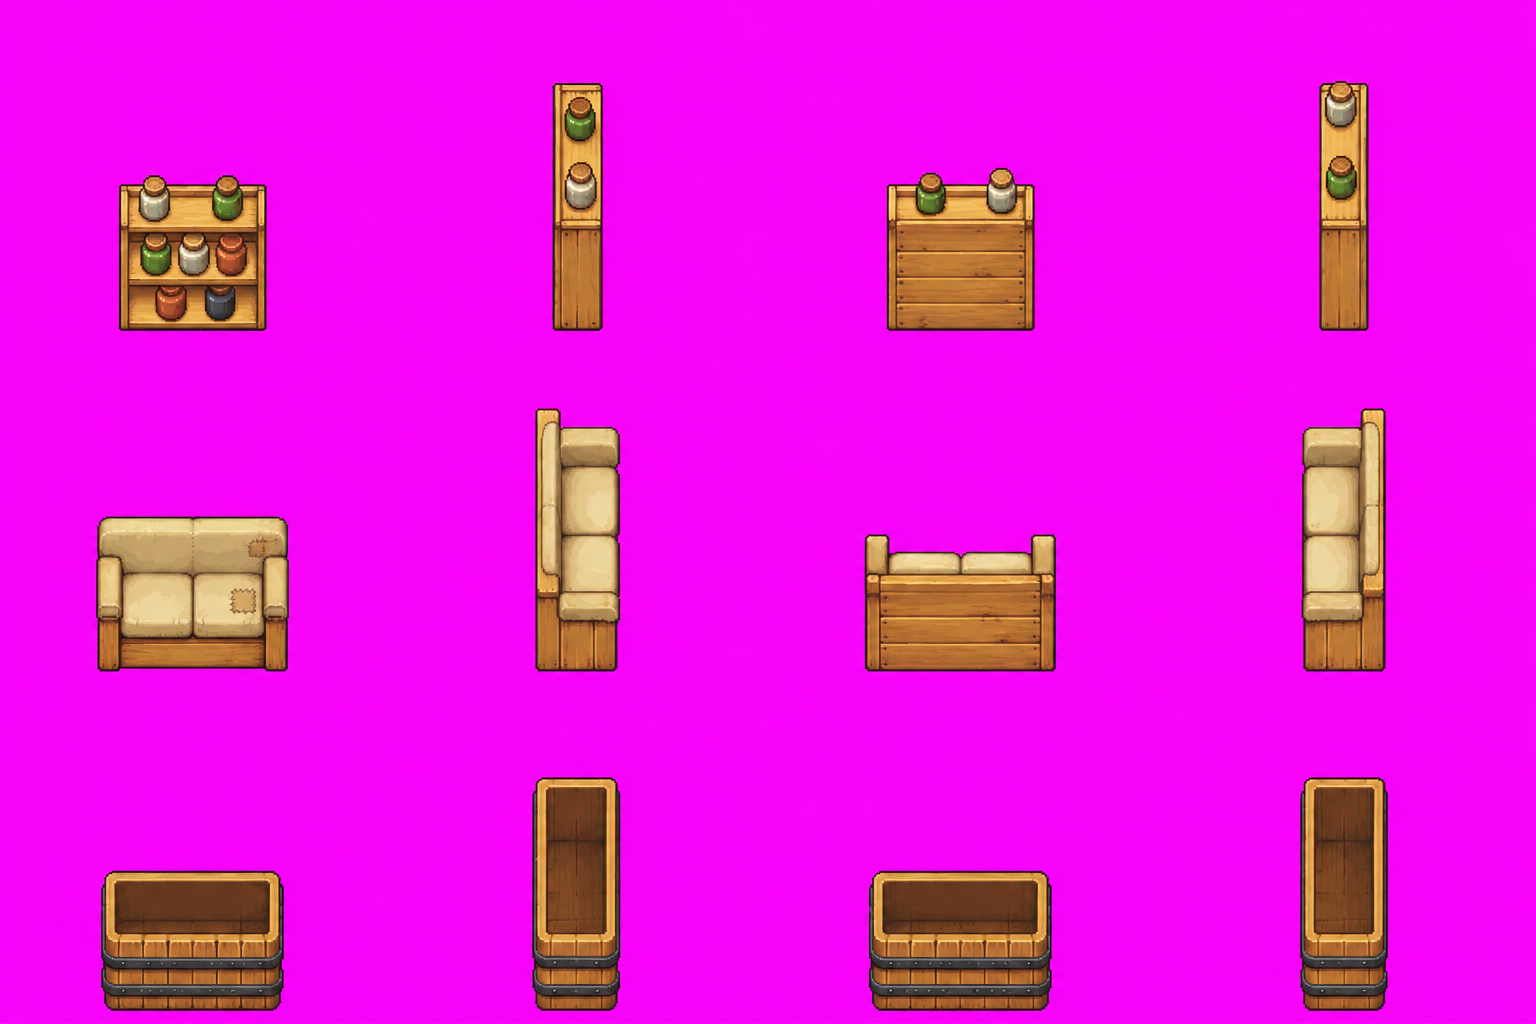
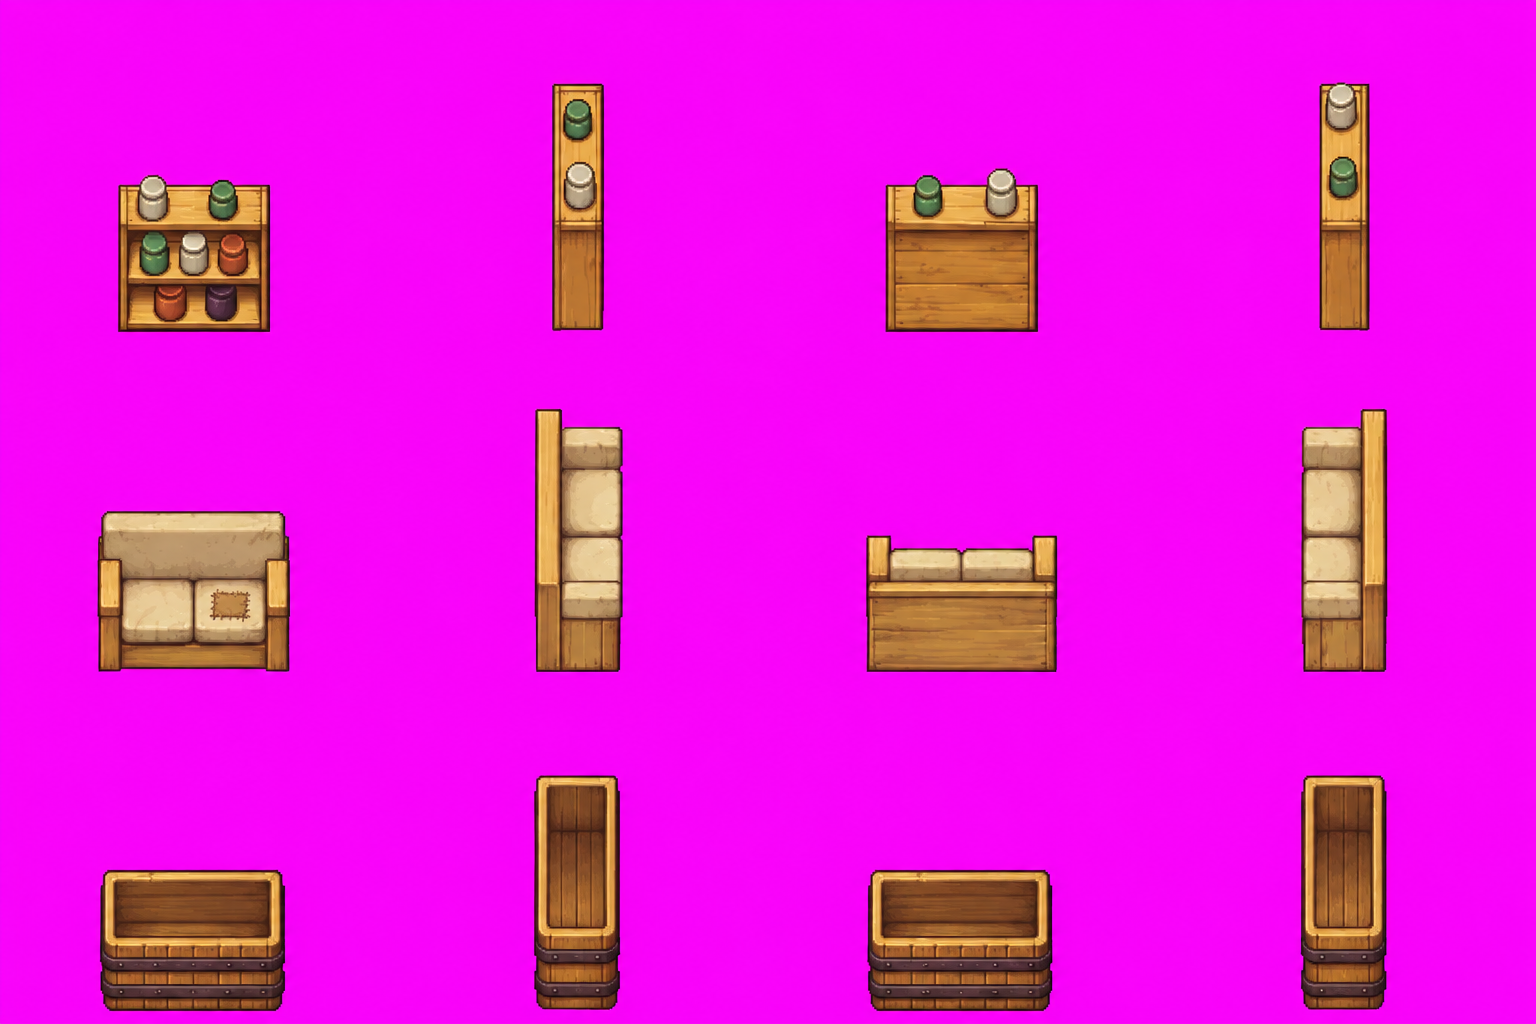
furniture: block-guide round judged (sheets A, B, C pass and are kept as sources; sheet D fails and gets larger guides D1, D2); code audit of farm and house recorded

diff --git a/furniture_guides.py b/furniture_guides.py
@@ -40,7 +40,7 @@ SHEETS = {'A': ['bed', 'wardrobe', 'desk'], 'B': ['piano', 'counter', 'stove'], 
 VIEWS = ['S', 'E', 'N', 'W']
 def tr(view, w, d, u, v):                                            # piece coordinates -> (across, depth toward the viewer)
     return {'S': (u, v), 'E': (v, w - u), 'N': (w - u, d - v), 'W': (d - v, u)}[view]
-def render(parts, w, d, view):
+def render(parts, w, d, view, PX=PX):
     prim = []
     for p in parts:
         if p[0] == 'box':
@@ -82,6 +82,21 @@ for name, rows in SHEETS.items():
             s, sz = render(parts, w, d, v); x = c * CW + (CW - s.width) // 2; assert s.height <= CH - 4, (piece, v, s.height); im.alpha_composite(s, (x, base - s.height)); meta[name][piece]['boxes'].append([x, base - s.height, x + s.width, base]); meta[name][piece]['tiles'].append(sz)
     im.convert('RGB').save(f'2_guide-{name}.png')
 json.dump({'px_per_tile': PX, 'cell_w': CW, 'columns': ['facing viewer', 'facing right', 'facing away', 'facing left'], 'sheets': meta}, open('furniture_guides.json', 'w'))
+# ---- sheet D again, larger (4 Oct): at 72 px a tile the toilet was only 57 px wide, and the painter blew the small pieces up by 1.2-1.65 times and flattened the round table top.
+# Two sheets at 108 px a tile, so every shape is big enough to be painted inside: D1 = toilet and washstand (2 rows x 4 views), D2 = the four single pieces (2 x 2).
+P2 = 108; meta['D1'] = {'px_per_tile': P2}; meta['D2'] = {'px_per_tile': P2}
+im = Image.new('RGBA', (W, H), MAG + (255,))
+for r, piece in enumerate(['toilet', 'washstand']):
+    w, d, parts = PIECES[piece]; base = r * 512 + 512 - 40; meta['D1'][piece] = {'views': 4, 'foot_w_d': [w, d], 'boxes': []}
+    for c, v in enumerate(VIEWS):
+        s_, sz = render(parts, w, d, v, P2); x = c * 384 + (384 - s_.width) // 2; assert s_.height <= 500 and s_.width <= 380, (piece, v, s_.size); im.alpha_composite(s_, (x, base - s_.height)); meta['D1'][piece]['boxes'].append([x, base - s_.height, x + s_.width, base])
+im.convert('RGB').save('2_guide-D1.png')
+im = Image.new('RGBA', (W, H), MAG + (255,))
+for i_, (k, (w, d, parts)) in enumerate(ONE.items()):
+    s_, sz = render(parts, w, d, 'S', P2); cx = (i_ % 2) * 768 + 384; base = (i_ // 2) * 512 + 512 - 40; assert s_.height <= 470, (k, s_.size); x = cx - s_.width // 2; im.alpha_composite(s_, (x, base - s_.height)); meta['D2'][k] = {'views': 1, 'box': [x, base - s_.height, x + s_.width, base], 'foot': [w, d]}
+im.convert('RGB').save('2_guide-D2.png')
+json.dump({'px_per_tile': PX, 'cell': [CW, CH], 'columns': ['facing viewer', 'facing right', 'facing away', 'facing left'], 'sheets': meta}, open('furniture_guides.json', 'w'))
+S2 = Image.new('RGB', (W * 2 + 10, H), (20, 20, 20)); S2.paste(Image.open('2_guide-D1.png'), (0, 0)); S2.paste(Image.open('2_guide-D2.png'), (W + 10, 0)); S2.resize((1540, 512)).save('_D12.png')
 S = Image.new('RGB', (W + 10, H * 2 + 10), (20, 20, 20))
 for i, n in enumerate('AB'): S.paste(Image.open(f'2_guide-{n}.png'), (0, i * (H + 10)))
 S.resize((1152, int((H * 2 + 10) * 1152 / (W + 10)))).save('_AB.png')

diff --git a/HANDOFF_S13.md b/HANDOFF_S13.md
@@ -6,6 +6,8 @@
 - เกม: https://phoneyjung.github.io/Leah-PP/ · โหมด GM: `?gm` · repo: https://github.com/phoneyjung/Leah-PP · อัปไฟล์: https://github.com/phoneyjung/Leah-PP/upload/main
 - **พื้นใหม่ไม่มีดอกไม้ (อยู่ในรุ่น 1.17 ที่อัป 4 ต.ค.):** เจ้าของส่งภาพ 5 ภาพ เลือก 4 (`art-G9b-ground-*.png`) · หญ้าเรียบ · ดอกไม้เป็นชิ้นแยก 168 ดอก 60 กลุ่ม วางตามกติกา (ใกล้ต้นไม้ พุ่ม รั้ว เป็นหลัก) · กอหญ้าใช้สีตามสนามหญ้าอัตโนมัติ · แปลงดินของเราวางทับแปลงที่ AI วาด (ของ AI มีรอยเส้นที่ขอบล่าง) · ภาพพื้นของเกมเหลือ 713 KB (เดิม 973)
 - **เฟอร์นิเจอร์รอบวาดทับบล็อก: ได้ผล (4 ต.ค.)** เจ้าของส่ง 20 ภาพ · การทับรูปทรงในภาพนำ: แผ่น A 0.974–0.979 · B 0.926–0.949 (ภาพหนึ่ง 0.844) · C 0.913–0.967 · D 0.18–0.24 (AI ขยายชิ้นและจัดวางใหม่ แต่มุมกล้องถูก) · วางในห้องจริงแล้วองศาเข้ากับห้อง · **คะแนน (องศา / สอดคล้อง / สวย / อื่น ๆ → เฉลี่ย):** A 9.8 / 9.7 / 8.8 / 9.5 → 9.45 ไม่ผ่าน (สตูลของโต๊ะกลายเป็นท่อนซุงเพราะภาพนำเป็นทรงกระบอกตัน) · **B 9.5 / 9.7 / 9.5 / 9.3 → 9.5 ผ่าน** เก็บ `art-furniture-plain-B.png` · **C 9.7 / 9.6 / 9.5 / 9.5 → 9.6 ผ่าน** เก็บ `art-furniture-plain-C.png` (โซฟาเป็นโครงไม้เบาะผ้า ด้านหลังเป็นไม้ สอดคล้องกันทุกทิศ) · D ไม่ผ่าน (ขนาดไม่ตรงภาพนำ) · **แก้ภาพนำ:** A ใส่สตูลจริง (ที่นั่งกลม 3 ขา `STOOL`) · D เพิ่มโต๊ะข้างเตียงเป็น 4 แถว (สูงแถวละ 256) ให้แผ่นแน่น และสตูลรอบโต๊ะกลมใช้แบบเดียวกัน · ส่งพรอมป์ A และ D ใหม่ รอภาพ · ชิ้นใหม่ในระบบ: โต๊ะข้างเตียง 0.9×0.7×0.9
+- **เฟอร์นิเจอร์รอบภาพนำแบบบล็อก (4 ต.ค.): แผ่น A B C ผ่าน · แผ่น D ไม่ผ่าน** 20 ภาพ · ภาพที่วาดทับรูปทรงในภาพนำ: A 0.966–0.970 · B 0.844–0.949 · C 0.913–0.967 (รอบกล่องเปล่าได้ 0.26–0.35) → องศาตรงกับห้องโดยโครงสร้าง · เลือก `art-furniture-plain-A.png` (เตียง ตู้ โต๊ะ · 0.970) `art-furniture-plain-B.png` (เปียโน เคาน์เตอร์ เตา · 0.949) `art-furniture-plain-C.png` (ชั้น โซฟา อ่างอาบน้ำ · 0.946: โซฟาเป็นโครงไม้มีเบาะผ้า สอดคล้องครบ 4 ทิศ; ภาพที่ทับดีกว่า 0.967 มีแขนโซฟาเป็นผ้าในมุมหน้าแต่เป็นไม้ในมุมอื่น จึงไม่เลือก) · ข้อบกพร่องเล็ก: โต๊ะมุมหันซ้ายมีหน้าลิ้นชักโผล่ที่ด้านปลาย · **แผ่น D ไม่ผ่านทั้ง 5 ภาพ:** ชิ้นเล็กในภาพนำ (โถส้วมกว้าง 57 px) AI ขยายเอง 1.2–1.65 เท่าและไม่เท่ากันระหว่างทิศ · หน้าโต๊ะกลมลึก/กว้าง 0.70–0.76 ใน 4 ภาพ (ต้อง 1.0) · ทำภาพนำ D ใหม่ที่ 108 px ต่อช่อง แยก 2 แผ่น `furniture-guide-D1.png` (โถส้วม อ่างล้างหน้า 2 แถว × 4 ทิศ ช่อง 384×512) `furniture-guide-D2.png` (ต้นไม้ โต๊ะกลม+สตูล พรม ถังซักผ้า 2×2 ช่อง 768×512) · ตัดใช้: A–C ย่อ ×32/72 · D1 D2 ย่อ ×32/108 · กล่องของทุกชิ้นใน `furniture_guides.json`
+- **ตรวจโค้ดฟาร์มและบ้าน (4 ต.ค. รุ่น 1.36):** ชุดทดสอบ 16 ชุดผ่านหมด error 0 · ฉากในบ้านแบบเก่าโหลดได้ทุกระดับ 1–9 ผู้เล่นยืนบนพื้น · รายการออฟไลน์ 135 ไฟล์ ไม่มีไฟล์หาย **รวม 17.4 MB** · คำที่ใช้กับ `t()` 489 คำ มีครบ · พบ: `rollFish` ประกาศ 2 ครั้ง (ตัวหลังชนะ ตัวแรกเป็นโค้ดตาย) · เกมขอไฟล์ภาพเสริม 11 ไฟล์ที่ไม่มีในที่เก็บทุกครั้งที่เปิด (มีภาพสำรอง ไม่ใช่ข้อผิดพลาด แต่เสีย 11 คำขอ) · ยังไม่ได้แก้อะไร
 - **เกณฑ์ของเจ้าของสำหรับเฟอร์นิเจอร์ (4 ต.ค.): ต้องได้ 9.5 ขึ้นไป** ดูที่ (1) องศาตรงกับฉาก (2) แต่ละทิศสอดคล้องกัน (3) สวย (4) อื่น ๆ · ไม่ผ่าน = ทำพรอมป์ใหม่ · **รอบกล่องเปล่า (20 ภาพ แผ่น A–D แผ่นละ 5) ไม่ผ่านทุกภาพ:** AI ไม่วาดทับกล่อง (พิกเซลที่วาดอยู่ในกล่องแค่ 33–44%) และวาดมุมต่ำเหมือนชุดแรก: เตียงหันหาคนดู 1 : 1.10–1.37 (ภาพนำ 1 : 2.3) · หน้าโต๊ะกลมลึก/กว้าง 0.44–0.53 = ราว 26–32° (ต้องเป็นวงกลม) · ความสอดคล้องระหว่างทิศดี (9) สวย (9) องศา (4) · สาเหตุ: กล่องไม่มีรายละเอียดให้ยึด และแนบแผ่นเฟอร์นิเจอร์มุมต่ำเป็นแบบหน้าตา AI จึงลอกมุมกล้องจากแผ่นนั้น · **รอบใหม่:** `furniture_guides.py` ปั้นแต่ละชิ้นจากบล็อกเล็ก ๆ แล้ววาดด้วยตัววาดมุมเฉียงที่มีบัฟเฟอร์ความลึก (x = แนวขวาง · y = ความลึก − ความสูง) ทั้ง 4 ทิศ → ภาพนำ `furniture-guide-A..D.png` ดูเป็นเฟอร์นิเจอร์ในมุมกล้องของห้องแล้ว · 72 px ต่อช่อง (เกม 32 → ×0.444) · ไม่แนบแผ่นเฟอร์นิเจอร์เก่าอีก · พรอมป์สั่งเป็นงานวาดทับ ห้ามวาดใหม่จากมุมอื่น · `furniture-camera-preview.jpg` = รูปทรงบล็อกวางในห้องจริง ยืนยันว่ามุมกล้องนี้เข้ากับห้อง · กล่องของแต่ละชิ้นและขนาดเป็นช่องอยู่ใน `furniture_guides.json`
 - **เฟอร์นิเจอร์: เจ้าของตัดสิน (4 ต.ค.)** (1) **4 มุมทุกชิ้น** (2) **เจนใหม่ทั้งชุด มุมก้มสูงขึ้น** เพราะชุดแรกไม่ผ่านเรื่ององศา (เจ้าของ: "ดูองศาของเฟอร์ด้วย ถ้าไม่เข้ากับห้องก็ไม่ผ่าน") (3) ของที่เคยวางในบ้านแบบเก่า **ลบทิ้ง เริ่มใหม่** · **ผลตรวจองศาชุดแรก** (`art-furniture-plain.png` วางในห้องจริง สเกลเดียว 0.47): พื้นห้องวาดแบบมองตรงจากบน (กระเบื้องจัตุรัส) แต่เฟอร์นิเจอร์มองจากราว 33° (วัดจากหน้าโต๊ะกลม ลึก/กว้าง 0.55) · ตู้ เคาน์เตอร์ เตา ชั้น เปียโน ผ่าน · เตียงไม่ผ่าน (กว้าง:ยาว 1:1.1 ควรราว 1:2) · **กติกามุมกล้องของเฟอร์นิเจอร์ (ใหม่):** ด้านบนของชิ้นวาดเต็มความลึกแบบมองจากบน และใต้ลงมาเป็นด้านที่หันหาคนดูเต็มความสูง ไม่เห็นด้านอื่น ไม่มีเส้นเฉียง = กติกาเดียวกับห้อง · **ภาพนำ 4 แผ่น** `furniture-guide-A..D.png` (`furniture_guides.py` · ขนาดกล่องและตารางใน `furniture_guides.json`): 74 px ต่อช่อง (เกม 32 → ย่อ ×0.432) · แผ่นละ 3 แถว × 4 คอลัมน์ · คอลัมน์ = หันหาคนดู · หันขวา · หันหลัง · หันซ้าย · A: เตียง 1.6×3.0×0.7 ตู้เสื้อผ้า 2.0×0.9×2.4 โต๊ะ 1.8×0.9×1.0 · B: เปียโน 2.2×0.9×1.6 เคาน์เตอร์ 3.0×0.9×1.1 เตา 1.1×0.9×1.1 · C: ชั้น 2.0×0.6×1.4 โซฟา 2.6×1.1×1.0 อ่างอาบน้ำ 2.4×1.1×0.8 · D: โถส้วม 0.8×1.1×0.9 อ่างล้างหน้า 1.2×0.7×1.1 + แถวชิ้นเดี่ยว (ต้นไม้ โต๊ะกลม+สตูล พรม 3×2 ถังซักผ้า) (หน่วย: กว้าง×ลึก×สูง เป็นช่อง) · ของกลมและพรมมีภาพเดียว เกมใช้ซ้ำทุกทิศ · **วิธีนี้ยังไม่เคยลองกับเฟอร์นิเจอร์** แนะนำเจ้าของรันแผ่น A ก่อน · พรอมป์ชุดสวย (เฟอร์นิเจอร์ 12 ชิ้น และห้องน้ำ/ครัว 12 ชิ้น) ที่ส่งไปก่อน **ยกเลิก** เพราะเป็นมุมหน้าเดียวมุมต่ำ จะทำใหม่ด้วยวิธีเดียวกันเมื่อชุดธรรมดาผ่าน
 - **ได้ภาพห้องเปล่าขั้น 1 และเฟอร์นิเจอร์ชุดธรรมดาแล้ว (4 ต.ค.) ยังไม่ได้ใส่เกม:** ห้อง 5 ภาพ เลือก `art-room-L1.png` (ผนังทับผัง 0.86 ดีที่สุด หน้าต่าง 6 บานตรงตำแหน่งผัง) · เฟอร์นิเจอร์ 5 แผ่น ทุกแผ่นครบ 15 ชิ้น เลือก `art-furniture-plain.png` (คมที่สุด) ลำดับชิ้น: เตียง ตู้เสื้อผ้า โต๊ะ+สตูล เปียโน ต้นไม้ / เคาน์เตอร์ครัว เตา โต๊ะกลม+สตูล โซฟา พรม / ชั้น อ่างไม้ โถส้วม อ่างล้างหน้า ถังซักผ้า · **เจ้าของถาม: เฟอร์นิเจอร์ต้องทำมุมอื่นไหมเพราะหมุนได้** ข้อเท็จจริงจากโค้ด: โหมดจัดบ้านมีแค่กลับซ้ายขวา (`DEC.tool==='flip'` → `f.fl`) ไม่มีหมุน 4 ทิศ · ถามเจ้าของแล้วว่าจะเอาแบบไหน (มุมเดียว / เพิ่มมุมข้างของชิ้นใหญ่ / 4 มุม) และของในเซฟเดิมจะทำอย่างไร รอคำตอบก่อนเขียนโค้ดฉากในบ้าน
